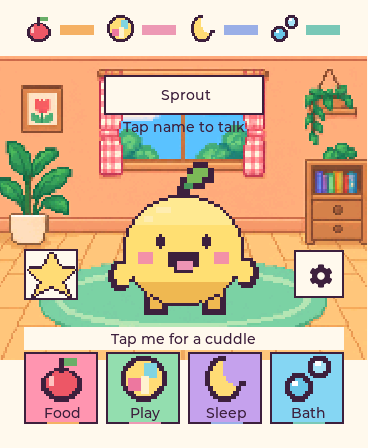
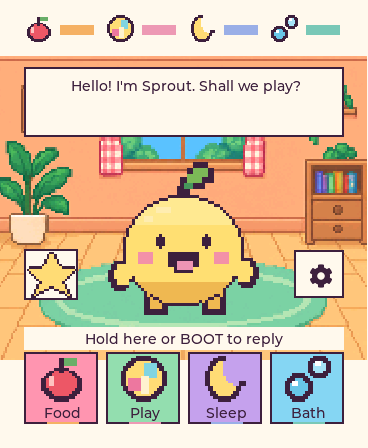
Fix silent audio initialization and keep pet voice in the room

Changed region(s): [[0.0598, 0.125, 0.9565, 0.3125], [0.2092, 0.7188, 0.7772, 0.7812]]

diff --git a/firmware/components/ui/ui.c b/firmware/components/ui/ui.c
@@ -20,7 +20,7 @@
 #define PINK 0xf3a8b6
 #define BLUE 0xa9dbef
 
-typedef enum { HOME, FOOD, CATCH, BATH, SLEEP, PARTY, ALBUM, SETTINGS, TALK, CONNECTION, NAME } View;
+typedef enum { HOME, FOOD, CATCH, BATH, SLEEP, PARTY, ALBUM, SETTINGS, CONNECTION, NAME } View;
 static View s_view;
 static lv_obj_t *s_root, *s_pet, *s_bars[4], *s_target, *s_counter;
 static lv_obj_t *s_dots[5], *s_hint, *s_sleep_bar;
@@ -28,7 +28,8 @@ static lv_obj_t *s_volume_label, *s_volume_slider;
 static lv_obj_t *s_pet_image, *s_pet_heart;
 static lv_obj_t *s_voice_status, *s_caption_label, *s_connection, *s_name_input, *s_name_error;
 static bool s_talking, s_boot_down, s_boot_raw;
-static uint32_t s_talk_started, s_boot_changed, s_connection_tick;
+static uint32_t s_talk_started, s_boot_changed, s_connection_tick, s_voice_until;
+static char s_last_caption[512];
 static pixel_pet_art_t s_pet_art;
 static pixel_face_t s_face;
 static uint32_t s_started, s_hop_until, s_last_tick;
@@ -201,13 +202,12 @@ static void volume_cb(lv_event_t *e)
 }
 static const char *activity(void)
 {
-    return (const char*[]){"home","snack time","catch stars","bubble bath","nap","celebrating","stickers","options","talking","connection check","naming"}[s_view];
+    return (const char*[]){"home","snack time","catch stars","bubble bath","nap","celebrating","stickers","options","connection check","naming"}[s_view];
 }
 static void talk_begin(void)
 {
     if(s_talking) return;
-    if(s_view!=TALK) show(TALK);
-    s_talking=true;s_talk_started=lv_tick_get();
+    s_talking=true;s_talk_started=lv_tick_get();s_voice_until=0;
     voice_start_talk(pet_state_get(),activity());
 }
 static void talk_end(void)
@@ -246,9 +246,16 @@ static void make_home(void)
     shape(s_root,24,327,320,23,CREAM,0);
     s_hint=label(s_root,"Tap me for a cuddle",28,331,312,false);
     make_pet(106,167);
-    lv_obj_t *talk=button(s_root,104,75,160,40,CREAM,nav_cb,TALK);
-    label(talk,pet_state_get()->name,0,10,160,false);
-    label(s_root,"Tap name to talk",104,119,160,false);
+    // Voice stays in the room: hold the speech bubble; all care buttons remain.
+    lv_obj_t *talk=button(s_root,24,67,320,70,CREAM,NULL,0);
+    s_caption_label=label(talk,"",8,9,304,false);
+    lv_obj_set_height(s_caption_label,52);lv_label_set_long_mode(s_caption_label,LV_LABEL_LONG_SCROLL);
+    char greeting[80];snprintf(greeting,sizeof(greeting),"%s\nHold here to talk",pet_state_get()->name);
+    lv_label_set_text(s_caption_label,greeting);
+    s_voice_status=s_hint;
+    lv_obj_add_event_cb(talk,talk_cb,LV_EVENT_PRESSED,NULL);
+    lv_obj_add_event_cb(talk,talk_cb,LV_EVENT_RELEASED,NULL);
+    lv_obj_add_event_cb(talk,talk_cb,LV_EVENT_PRESS_LOST,NULL);
     lv_obj_t *album=button(s_root,24,249,54,51,CREAM,nav_cb,ALBUM); icon(album,4,-2,1);
     lv_obj_t *settings=button(s_root,294,250,50,48,CREAM,nav_cb,SETTINGS);
     label(settings,LV_SYMBOL_SETTINGS,0,11,50,true);
@@ -263,7 +270,7 @@ static void make_home(void)
 }
 static void show(View view)
 {
-    if(s_view==TALK && view!=TALK) { s_talking=false;voice_cancel(); }
+    if(s_talking && !s_boot_down)talk_end();
     s_voice_status=NULL;s_caption_label=NULL;s_connection=NULL;s_name_input=NULL;s_name_error=NULL;
     // Single owner: no screen-specific timers or callbacks survive the root.
     s_volume_label=NULL; s_volume_slider=NULL;
@@ -361,18 +368,6 @@ static void show(View view)
         label(wifi,"Wi-Fi & voice connection",0,9,300,false);
         lv_obj_t *name=button(s_root,34,395,300,36,0xffe9d3,nav_cb,NAME);
         snprintf(b,sizeof(b),"Pet name: %s",pet_state_get()->name);label(name,b,0,9,300,false);
-    } else if(view==TALK) {
-        room(false);header(pet_state_get()->name);make_pet(106,127);
-        shape(s_root,24,82,320,28,CREAM,0);
-        s_voice_status=label(s_root,"Hold Talk or BOOT",24,88,320,false);
-        shape(s_root,24,277,320,69,CREAM,0);
-        s_caption_label=label(s_root,"Let's have a little chat!",32,285,304,false);
-        lv_obj_set_height(s_caption_label,58);lv_label_set_long_mode(s_caption_label,LV_LABEL_LONG_SCROLL);
-        lv_obj_t *b=button(s_root,64,362,240,62,MINT,NULL,0);
-        label(b,"Hold to talk",0,22,240,true);
-        lv_obj_add_event_cb(b,talk_cb,LV_EVENT_PRESSED,NULL);
-        lv_obj_add_event_cb(b,talk_cb,LV_EVENT_RELEASED,NULL);
-        lv_obj_add_event_cb(b,talk_cb,LV_EVENT_PRESS_LOST,NULL);
     } else if(view==CONNECTION) {
         header("Connection");
         s_connection=label(s_root,"Checking...",24,105,320,false);
@@ -414,11 +409,25 @@ static void frame(lv_timer_t *t)
     if(s_talking && now-s_talk_started>=20000)talk_end();
     voice_state_t vs=voice_get_state();
     if(s_voice_status) {
-        lv_label_set_text(s_voice_status,s_talking && vs!=VOICE_OFFLINE?"Listening... let go when done":
-            vs==VOICE_THINKING?"Thinking...":vs==VOICE_SPEAKING || audio_voice_playing()?"Speaking...":
-            vs==VOICE_OFFLINE?"Voice offline - check Options":"Hold Talk or BOOT");
         char caption[512];voice_caption(caption,sizeof(caption));
-        if(caption[0] && strcmp(lv_label_get_text(s_caption_label),caption))lv_label_set_text(s_caption_label,caption);
+        bool speaking=vs==VOICE_SPEAKING || audio_voice_playing();
+        bool busy=vs==VOICE_LISTENING || vs==VOICE_THINKING || speaking;
+        if(strcmp(s_last_caption,caption)) { snprintf(s_last_caption,sizeof(s_last_caption),"%s",caption);s_voice_until=now+12000; }
+        if(busy && caption[0])s_voice_until=now+12000;
+        if(vs==VOICE_LISTENING) {
+            int level=audio_mic_level();
+            lv_label_set_text(s_caption_label,level>300?"I'm listening...\nI can hear your voice!":"I'm listening...\nSpeak close to me");
+            lv_label_set_text(s_voice_status,"Let go when you're done");
+        } else if(vs==VOICE_THINKING) {
+            lv_label_set_text(s_caption_label,"One little moment...");
+            lv_label_set_text(s_voice_status,"Thinking...");
+        } else if(caption[0] && (int32_t)(s_voice_until-now)>0) {
+            if(strcmp(lv_label_get_text(s_caption_label),caption))lv_label_set_text(s_caption_label,caption);
+            lv_label_set_text(s_voice_status,speaking?"Chatting with you":"Hold here or BOOT to reply");
+        } else {
+            char greeting[80];snprintf(greeting,sizeof(greeting),"%s\nHold here to talk",pet_state_get()->name);
+            if(strcmp(lv_label_get_text(s_caption_label),greeting)) {lv_label_set_text(s_caption_label,greeting);refresh();}
+        }
     }
     if(s_connection && now-s_connection_tick>=500) { char text[256];voice_status(text,sizeof(text));lv_label_set_text(s_connection,text);s_connection_tick=now; }
     if(now-s_last_tick>=10000) { pet_state_tick((uint32_t)time(NULL)); s_last_tick=now; refresh(); }
@@ -428,7 +437,7 @@ static void frame(lv_timer_t *t)
         lv_obj_set_y(s_pet,s_pet_y+dy);
         bool asleep=s_view==SLEEP;
         bool delighted=s_view==PARTY || (hopping && !s_eating && !asleep);
-        s_face=asleep?PIXEL_SLEEP:(s_view==TALK && audio_voice_playing() && (now/180)%2)?PIXEL_EAT:s_eating?PIXEL_EAT:delighted?PIXEL_HAPPY:
+        s_face=asleep?PIXEL_SLEEP:(audio_voice_playing() && (now/180)%2)?PIXEL_EAT:s_eating?PIXEL_EAT:delighted?PIXEL_HAPPY:
                now%4200>4010?PIXEL_BLINK:PIXEL_IDLE;
         pixel_pet_render(&s_pet_art,pet_state_get(),s_face,now/180);
         lv_obj_invalidate(s_pet_image);

diff --git a/firmware/components/voice/voice.c b/firmware/components/voice/voice.c
@@ -31,7 +31,7 @@ enum { START=1, END, CANCEL, PCM, CHECK, HELLO };
 static QueueHandle_t s_commands;
 static esp_websocket_client_handle_t s_ws;
 static atomic_int s_state=VOICE_OFFLINE;
-static atomic_bool s_wifi, s_ready, s_capturing, s_overflow;
+static atomic_bool s_wifi, s_ready, s_capturing, s_overflow, s_requested;
 static portMUX_TYPE s_lock=portMUX_INITIALIZER_UNLOCKED;
 static char s_ip[20]="--", s_caption[512]="", s_check[48]="";
 static char s_rx[8192];
@@ -72,15 +72,16 @@ static void enqueue(int kind,const Pet *pet,const char *activity)
 void voice_start_talk(const Pet *pet,const char *activity)
 {
     if(!atomic_load(&s_ready)) { caption_set("Voice is offline. Check Wi-Fi in Options.");return; }
-    if(atomic_load(&s_capturing)) return;
+    if(!audio_is_ready()) { caption_set("My microphone needs a restart.");atomic_store(&s_state,VOICE_ERROR);return; }
+    if(atomic_exchange(&s_requested,true)) return;
     audio_voice_stop();caption_set("");atomic_store(&s_state,VOICE_LISTENING);enqueue(START,pet,activity);
 }
 void voice_end_talk(const Pet *pet,const char *activity)
 {
     audio_set_capture(false);atomic_store(&s_capturing,false);
-    if(voice_get_state()==VOICE_LISTENING) { atomic_store(&s_state,VOICE_THINKING);enqueue(END,pet,activity); }
+    if(atomic_exchange(&s_requested,false)) { atomic_store(&s_state,VOICE_THINKING);enqueue(END,pet,activity); }
 }
-void voice_cancel(void) { audio_set_capture(false);atomic_store(&s_capturing,false);audio_voice_stop();enqueue(CANCEL,NULL,NULL); }
+void voice_cancel(void) { atomic_store(&s_requested,false);audio_set_capture(false);atomic_store(&s_capturing,false);audio_voice_stop();enqueue(CANCEL,NULL,NULL); }
 void voice_check(void) { enqueue(CHECK,NULL,NULL); }
 static void mic(const uint8_t *p,size_t n)
 {
@@ -105,13 +106,16 @@ static void handle_json(void)
         if(!strcmp(type,"ready")) { atomic_store(&s_ready,true);atomic_store(&s_state,VOICE_READY);ESP_LOGI("voice","pet gateway ready"); }
         else if(!strcmp(type,"state") && cJSON_IsString(v)) {
             // Never let a delayed idle/listening event overwrite a new local capture.
-            if(!atomic_load(&s_capturing)) atomic_store(&s_state,!strcmp(v->valuestring,"listening")?VOICE_LISTENING:!strcmp(v->valuestring,"thinking")?VOICE_THINKING:!strcmp(v->valuestring,"speaking")?VOICE_SPEAKING:VOICE_READY);
+            if(!atomic_load(&s_requested) && strcmp(v->valuestring,"listening")) atomic_store(&s_state,!strcmp(v->valuestring,"thinking")?VOICE_THINKING:!strcmp(v->valuestring,"speaking")?VOICE_SPEAKING:VOICE_READY);
         } else if(!strcmp(type,"say")) {
             const cJSON *text=cJSON_GetObjectItem(o,"text");
             if(cJSON_IsString(text) && voice_get_state()!=VOICE_LISTENING) { portENTER_CRITICAL(&s_lock);strlcat(s_caption,text->valuestring,sizeof(s_caption));portEXIT_CRITICAL(&s_lock); }
         } else if(!strcmp(type,"tts_start") && voice_get_state()!=VOICE_LISTENING) audio_voice_begin();
         else if(!strcmp(type,"tts_end")) audio_voice_end();
-        else if(!strcmp(type,"error")) { atomic_store(&s_state,VOICE_ERROR);audio_set_capture(false);atomic_store(&s_capturing,false);audio_voice_stop();caption_set("I couldn't hear back. Please try again.");ESP_LOGW("voice","gateway reported an error"); }
+        else if(!strcmp(type,"error")) { atomic_store(&s_state,VOICE_ERROR);audio_set_capture(false);atomic_store(&s_capturing,false);audio_voice_stop();const cJSON *code=cJSON_GetObjectItem(o,"code");
+            const char *reason=cJSON_IsString(code)?code->valuestring:"unknown";
+            caption_set(!strcmp(reason,"no_speech")?"I didn't catch that. Hold and speak close to me.":!strcmp(reason,"no_audio")?"My microphone didn't send sound. Please restart me.":"I couldn't hear back. Please try again.");
+            ESP_LOGW("voice","gateway error: %s",reason); }
         else if(!strcmp(type,"pong")) { portENTER_CRITICAL(&s_lock);s_last_pong=xTaskGetTickCount();snprintf(s_check,sizeof(s_check),"Check passed: server replied");portEXIT_CRITICAL(&s_lock); }
     }
     cJSON_Delete(o);
@@ -121,7 +125,7 @@ static void ws_event(void *arg,esp_event_base_t base,int32_t id,void *event)
     (void)arg;(void)base;esp_websocket_event_data_t *d=event;
     if(id==WEBSOCKET_EVENT_CONNECTED) { s_rxlen=0;s_rxop=0;enqueue(HELLO,NULL,NULL); }
     else if(id==WEBSOCKET_EVENT_DISCONNECTED) {
-        atomic_store(&s_ready,false);atomic_store(&s_state,VOICE_OFFLINE);atomic_store(&s_capturing,false);
+        atomic_store(&s_ready,false);atomic_store(&s_state,VOICE_OFFLINE);atomic_store(&s_capturing,false);atomic_store(&s_requested,false);
         audio_set_capture(false);audio_voice_stop();s_rxlen=0;s_rxop=0;
     } else if(id==WEBSOCKET_EVENT_DATA) {
         int op=d->op_code;if(op==1 || op==2)s_rxop=op;
@@ -177,10 +181,11 @@ static void worker(void *arg)
             a=cJSON_AddObjectToObject(o,"playback");cJSON_AddNumberToObject(a,"rate",16000);send_json(o);
         } else if(c.kind==START && atomic_load(&s_ready)) {
             o=message("audio_start");add_pet(o,&c);
-            if(send_json(o)) { capture_started=now;atomic_store(&s_capturing,true);audio_set_capture(true); }
+            if(send_json(o)) { capture_started=now;atomic_store(&s_capturing,true);audio_set_capture(true);ESP_LOGI("voice","capture started; mic frames=%u",audio_mic_frames()); }
+            else { atomic_store(&s_requested,false);atomic_store(&s_state,VOICE_ERROR);caption_set("Connection lost. Please try again."); }
         } else if(c.kind==END) {
             audio_set_capture(false);atomic_store(&s_capturing,false);
-            o=message("audio_end");add_pet(o,&c);send_json(o);turn_started=now;
+            o=message("audio_end");add_pet(o,&c);send_json(o);turn_started=now;ESP_LOGI("voice","capture ended; mic frames=%u peak=%d",audio_mic_frames(),audio_mic_level());
         } else if(c.kind==PCM && atomic_load(&s_ready)) {
             if(esp_websocket_client_send_bin(s_ws,(char*)c.pcm,c.len,pdMS_TO_TICKS(300))!=(int)c.len) atomic_store(&s_overflow,true);
         } else if(c.kind==CANCEL) { send_json(message("cancel"));atomic_store(&s_state,atomic_load(&s_ready)?VOICE_READY:VOICE_OFFLINE); }

diff --git a/tests/host/test.c b/tests/host/test.c
@@ -19,16 +19,21 @@ int power_battery_percent(void) { return 85; }
 bool power_is_charging(void) { return true; }
 void audio_play(sfx_id_t f) { (void)f; }
 void audio_set_muted(bool m) { (void)m; }
+static bool test_boot;
+static int test_starts, test_ends;
+static voice_state_t test_voice=VOICE_READY;
 void voice_init(void) {}
-void voice_start_talk(const Pet *p,const char *a) {(void)p;(void)a;}
-void voice_end_talk(const Pet *p,const char *a) {(void)p;(void)a;}
+void voice_start_talk(const Pet *p,const char *a) {assert(p && a);test_starts++;test_voice=VOICE_LISTENING;}
+void voice_end_talk(const Pet *p,const char *a) {assert(p && a);test_ends++;test_voice=VOICE_THINKING;}
 void voice_cancel(void) {}
 void voice_check(void) {}
-voice_state_t voice_get_state(void) {return VOICE_READY;}
+voice_state_t voice_get_state(void) {return test_voice;}
 void voice_status(char *s,size_t n) {snprintf(s,n,"Wi-Fi: Connected\nHome network\nIP: 192.168.1.42\nSignal: -52 dBm\nVoice server: Ready\nCheck passed: server replied");}
 void voice_caption(char *s,size_t n) {snprintf(s,n,"Hello! I'm Sprout. Shall we play?");}
-bool voice_boot_pressed(void) {return false;}
+bool voice_boot_pressed(void) {return test_boot;}
 bool audio_voice_playing(void) {return false;}
+bool audio_is_ready(void) {return true;}
+int audio_mic_level(void) {return 800;}
 static int test_volume=35;
 void audio_set_volume(int v) { test_volume=v; }
 int audio_get_volume(void) { return test_volume; }
@@ -96,9 +101,21 @@ int main(void)
     assert(s_view==HOME);assert(pet_state_get()->evolution_progress==4);
     show(ALBUM);shot("album-locked");
     for(int i=0;i<26;i++)pet_state_play();show(ALBUM);shot("album");show(HOME);shot("grown-pet");
-    show(TALK);shot("talk");
-    tx=180;ty=392;pressed=true;advance(100);assert(s_talking);
-    pressed=false;advance(100);assert(!s_talking);
+    show(HOME);shot("talk");
+    tx=180;ty=96;pressed=true;advance(100);assert(s_talking);assert(s_view==HOME);
+    assert(strstr(lv_label_get_text(s_caption_label),"listening"));
+    lv_obj_t *room_root=s_root;
+    pressed=false;advance(100);assert(!s_talking);assert(test_starts==1 && test_ends==1);
+    assert(s_view==HOME && s_root==room_root && s_bars[0]);
+    test_voice=VOICE_READY;
+    test_boot=true;advance(200);assert(s_talking && s_view==HOME);
+    test_boot=false;advance(200);assert(!s_talking);assert(test_starts==2 && test_ends==2);
+    test_voice=VOICE_READY;
+    test_boot=true;advance(200);advance(20100);assert(!s_talking);assert(test_ends==3);
+    test_boot=false;advance(200);assert(test_ends==3);test_voice=VOICE_READY;
+    // BOOT also leaves an ongoing care activity in place.
+    show(BATH);test_boot=true;advance(200);assert(s_view==BATH && s_talking);
+    test_boot=false;advance(200);assert(s_view==BATH && !s_talking);test_voice=VOICE_READY;
     show(CONNECTION);advance(600);shot("connection");show(NAME);shot("name");
     lv_textarea_set_text(s_name_input,"Clover");tap(180,235);assert(s_view==SETTINGS);assert(!strcmp(pet_state_get()->name,"Clover"));
     show(NAME);lv_textarea_set_text(s_name_input,"");tap(180,235);assert(s_view==NAME);

diff --git a/firmware/components/audio/audio.c b/firmware/components/audio/audio.c
@@ -9,7 +9,12 @@
 #include "freertos/stream_buffer.h"
 #include "freertos/task.h"
 #include "esp_log.h"
+#include "esp_heap_caps.h"
 static QueueHandle_t s_fx;
+static StaticStreamBuffer_t s_pcm_control;
+static atomic_bool s_ready;
+static atomic_int s_mic_level;
+static atomic_uint s_mic_frames;
 static StreamBufferHandle_t s_pcm;
 static esp_codec_dev_handle_t s_spk, s_mic;
 static audio_mic_cb_t s_cb;
@@ -51,6 +56,9 @@ static void mic_task(void *arg)
     (void)arg; uint8_t buf[640];
     for(;;) {
         if(esp_codec_dev_read(s_mic,buf,sizeof(buf))==ESP_OK) {
+            unsigned peak=0;
+            for(size_t i=0;i<sizeof(buf);i+=2) { int v=(int16_t)(buf[i]|(buf[i+1]<<8));unsigned a=v<0?-v:v;if(a>peak)peak=a; }
+            atomic_store(&s_mic_level,peak);atomic_fetch_add(&s_mic_frames,1);
             if(atomic_load(&s_capture) && s_cb) s_cb(buf,sizeof(buf));
         } else vTaskDelay(pdMS_TO_TICKS(10));
     }
@@ -63,10 +71,18 @@ void audio_init(void)
     esp_codec_dev_sample_info_t fmt={.sample_rate=16000,.channel=1,.bits_per_sample=16};
     if(esp_codec_dev_open(s_spk,&fmt)!=ESP_OK || esp_codec_dev_open(s_mic,&fmt)!=ESP_OK) return;
     esp_codec_dev_set_in_gain(s_mic,30.0f);
-    s_pcm=xStreamBufferCreate(96*1024,1);s_fx=xQueueCreate(4,sizeof(sfx_id_t));
-    if(!s_pcm || !s_fx) return;
-    xTaskCreatePinnedToCore(play_task,"pet_audio",4096,NULL,6,NULL,1);
-    xTaskCreatePinnedToCore(mic_task,"pet_mic",4096,NULL,5,NULL,1);
+    ESP_LOGI("audio","internal largest block before speech buffer: %u",(unsigned)heap_caps_get_largest_free_block(MALLOC_CAP_INTERNAL|MALLOC_CAP_8BIT));
+    // FreeRTOS dynamic buffers allocate INTERNAL memory even with PSRAM enabled.
+    // Audio payload belongs in PSRAM; the stream's control object stays internal.
+    uint8_t *storage=heap_caps_malloc(96*1024+1,MALLOC_CAP_SPIRAM|MALLOC_CAP_8BIT);
+    if(storage)s_pcm=xStreamBufferCreateStatic(96*1024+1,1,storage,&s_pcm_control);
+    s_fx=xQueueCreate(4,sizeof(sfx_id_t));
+    if(!s_pcm || !s_fx) { ESP_LOGE("audio","audio buffers unavailable");return; }
+    TaskHandle_t player=NULL;
+    if(xTaskCreatePinnedToCore(play_task,"pet_audio",4096,NULL,6,&player,1)!=pdPASS) { ESP_LOGE("audio","speaker task unavailable");return; }
+    if(xTaskCreatePinnedToCore(mic_task,"pet_mic",4096,NULL,5,NULL,1)!=pdPASS) { vTaskDelete(player);ESP_LOGE("audio","mic task unavailable");return; }
+    atomic_store(&s_ready,true);
+    ESP_LOGI("audio","speaker and mic tasks ready; 96 KB speech buffer in PSRAM");
 }
 void audio_play(sfx_id_t fx) { if(s_fx && !atomic_load(&s_muted) && !atomic_load(&s_capture) && !atomic_load(&s_playing)) xQueueSend(s_fx,&fx,0); }
 void audio_set_muted(bool m) { atomic_store(&s_muted,m); }
@@ -83,3 +99,7 @@ void audio_play_pcm(const uint8_t *p,size_t n)
     if(s_pcm && atomic_load(&s_accept) && xStreamBufferSend(s_pcm,p,n,0)!=n)
         ESP_LOGW("audio","speech buffer full");
 }
+
+bool audio_is_ready(void) { return atomic_load(&s_ready); }
+unsigned audio_mic_frames(void) { return atomic_load(&s_mic_frames); }
+int audio_mic_level(void) { return atomic_load(&s_mic_level); }

diff --git a/firmware/components/audio/include/audio.h b/firmware/components/audio/include/audio.h
@@ -41,3 +41,7 @@ void audio_voice_begin(void);
 void audio_voice_end(void);
 void audio_voice_stop(void);
 bool audio_voice_playing(void);
+
+bool audio_is_ready(void);
+unsigned audio_mic_frames(void);
+int audio_mic_level(void);

diff --git a/docs/voice-v1.md b/docs/voice-v1.md
@@ -1,12 +1,12 @@
 # Sprout's voice — first version
 
-Sprout is the default name. Tap its name at home to open the talking screen, then hold **Talk**, speak, and release. Holding **BOOT** opens the same screen and records while held. Recording stops after 20 seconds. Do not hold BOOT while powering on: that is the ESP's download-mode shortcut. PWR retains its existing hardware function.
+Sprout is the default name. Hold the speech bubble on the home screen, speak, and release. Holding **BOOT** records while held without leaving the current screen or interrupting a care activity. Recording stops after 20 seconds. Do not hold BOOT while powering on: that is the ESP's download-mode shortcut. PWR retains its existing hardware function.
 
 **Options → Pet name** changes the saved name without changing identity or memories. Names use 1–15 letters/spaces/apostrophes/hyphens and start with a letter. Existing saves are migrated without resetting progress.
 
 **Options → Wi-Fi & voice connection** shows Wi-Fi connectivity, network name, IP, signal strength and gateway readiness. **Check now** sends a ping and reports a reply or timeout. This checks the gateway connection, not every upstream AI service. Existing Wi-Fi credentials are reused. There is no network picker/password editor in this version. Normal pet care works offline.
 
-Voice and sound effects share one speaker worker and the existing volume/mute controls. The microphone is gated by push-to-talk, never sent continuously. Reply text appears on the talk screen and the mouth animates during playback. Leaving that screen cancels the voice turn. A network interruption stops capture/playback and reconnects automatically.
+Voice and sound effects share one speaker worker and the existing volume/mute controls. The microphone is gated by push-to-talk, never sent continuously. Reply text appears in the home speech bubble and the mouth animates during playback. The room and care controls remain visible; there is no separate chat screen. A network interruption stops capture/playback and reconnects automatically.
 
 ## Connection and identity
 
@@ -49,3 +49,13 @@ Mac mini backups: `~/pet-voice-backup/{voice.py,session.py,butler.py,gateway.env
 Backend commits: HomeServer `a1ff4a2` (pushed on `codex/pet-voice-v1`), claude-esp `62c12b9`.
 
[1 lines of base64/hex data omitted]
+
+## Inline voice / microphone fix
+
+A user test exposed a real device allocation failure that the earlier backend tests did not cover: `xStreamBufferCreate(96*1024)` allocates internal RAM, regardless of general PSRAM settings. The device had only 49,152 bytes in its largest free internal block. Allocation failed and the old early return silently skipped creating both audio tasks, despite successful codec initialization.
+
+Speech storage now explicitly uses PSRAM with `xStreamBufferCreateStatic`; its control structure stays internal. Buffer/task failures are logged and surfaced before listening. Boot confirms both tasks running. Audio start/end diagnostics include microphone frame counts. Recording intent is separate from network status, so a delayed listening acknowledgement cannot swallow release. Pet sessions report empty/quiet captures as retry messages instead of silently going idle.
+
+Voice now stays in the normal room, with a holdable speech bubble, listening level feedback, thinking/reply text, and mouth animation. BOOT also keeps other care screens in place. Host checks cover touch hold/release, BOOT press/release, the 20-second recording limit, and preserving an active bath. All 28 gateway tests pass, including empty microphone and silence feedback.
+
+Live device retest after the fix: one 1.20-second hold sent 38,400 PCM bytes; Groq transcribed “Hello.”, the dedicated pet endpoint returned HTTP 200, and Kokoro generated the reply. Device logs show microphone frame counts increasing from 3,078 to 3,138 during that recording.

diff --git a/README.md b/README.md
@@ -1,6 +1,6 @@
 # Little Meadow
 
-Voice v1: Sprout can now chat using the existing Mac mini voice stack. Tap its name or hold BOOT to talk. Rename it and check Wi-Fi in Options. See [voice controls, setup and rollback](docs/voice-v1.md).
+Voice v1: Sprout can now chat using the existing Mac mini voice stack. Hold the speech bubble or BOOT to talk without leaving the pet screen. Rename it and check Wi-Fi in Options. See [voice controls, setup and rollback](docs/voice-v1.md).
 
 A gentle touchscreen pet for the **Waveshare ESP32-S3-Touch-AMOLED-1.8 (original SH8601 / FT3168 board)**, built with ESP-IDF 5.3.5 and LVGL 9.
 
